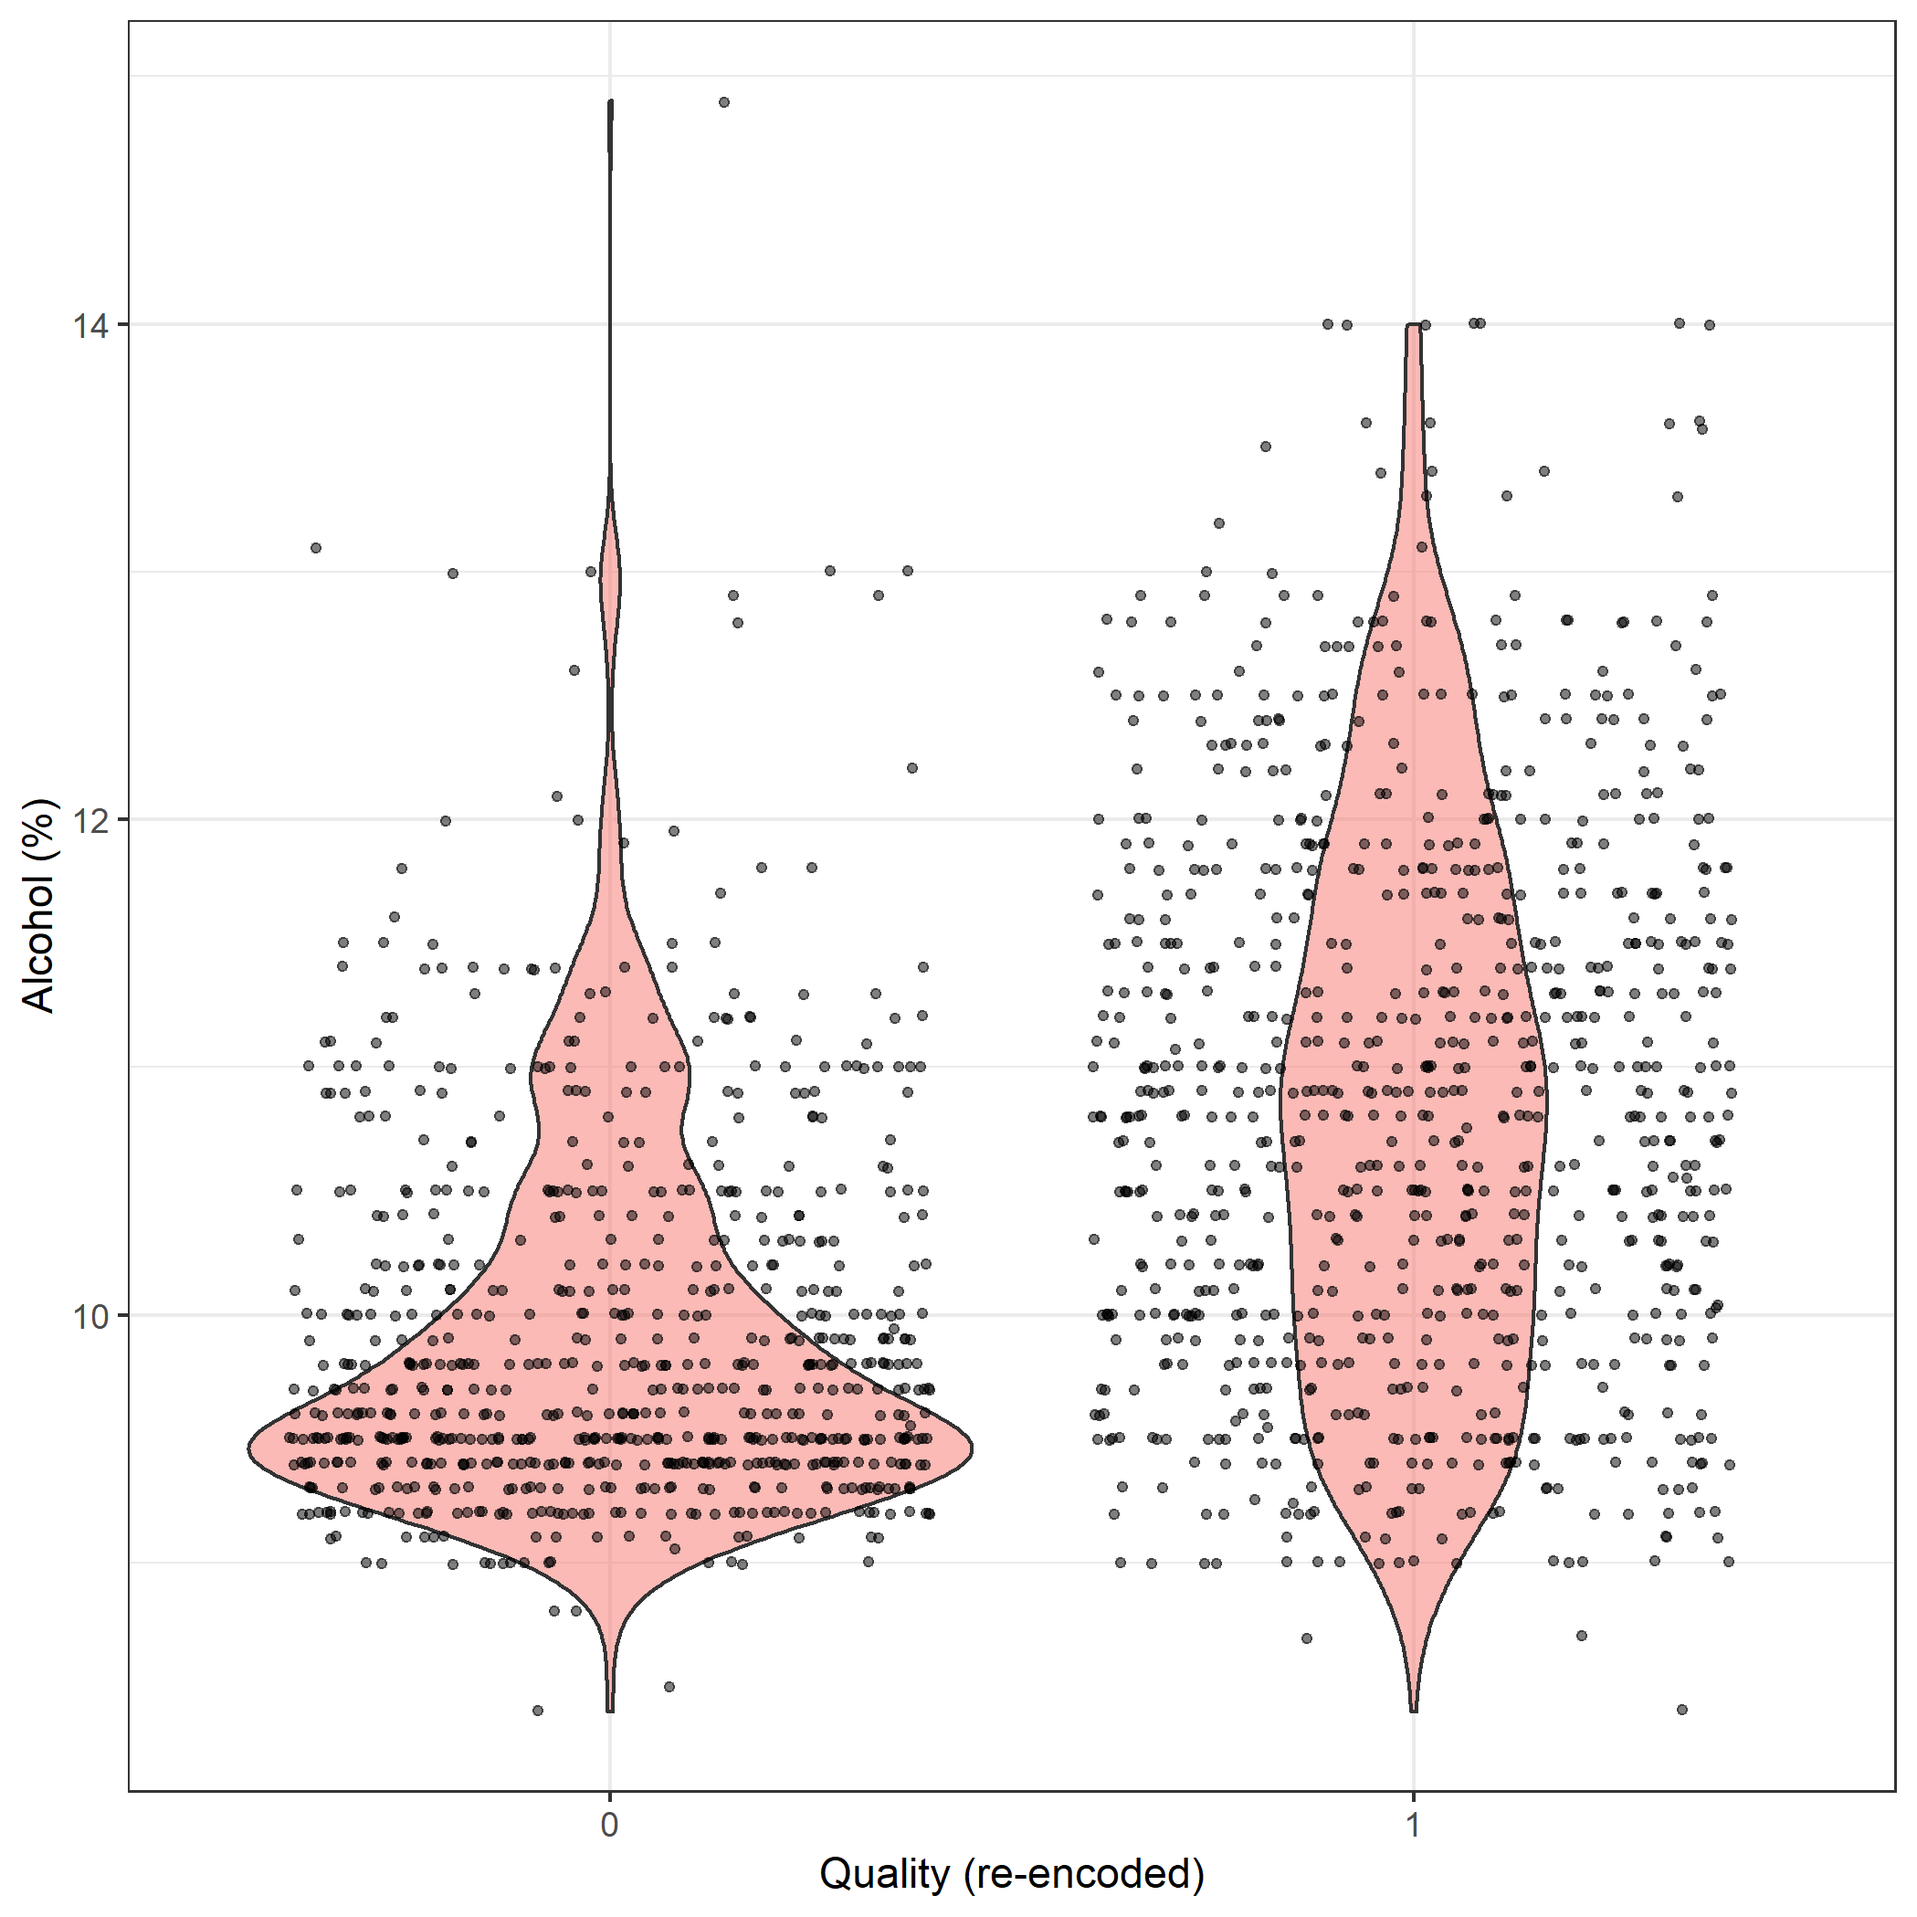
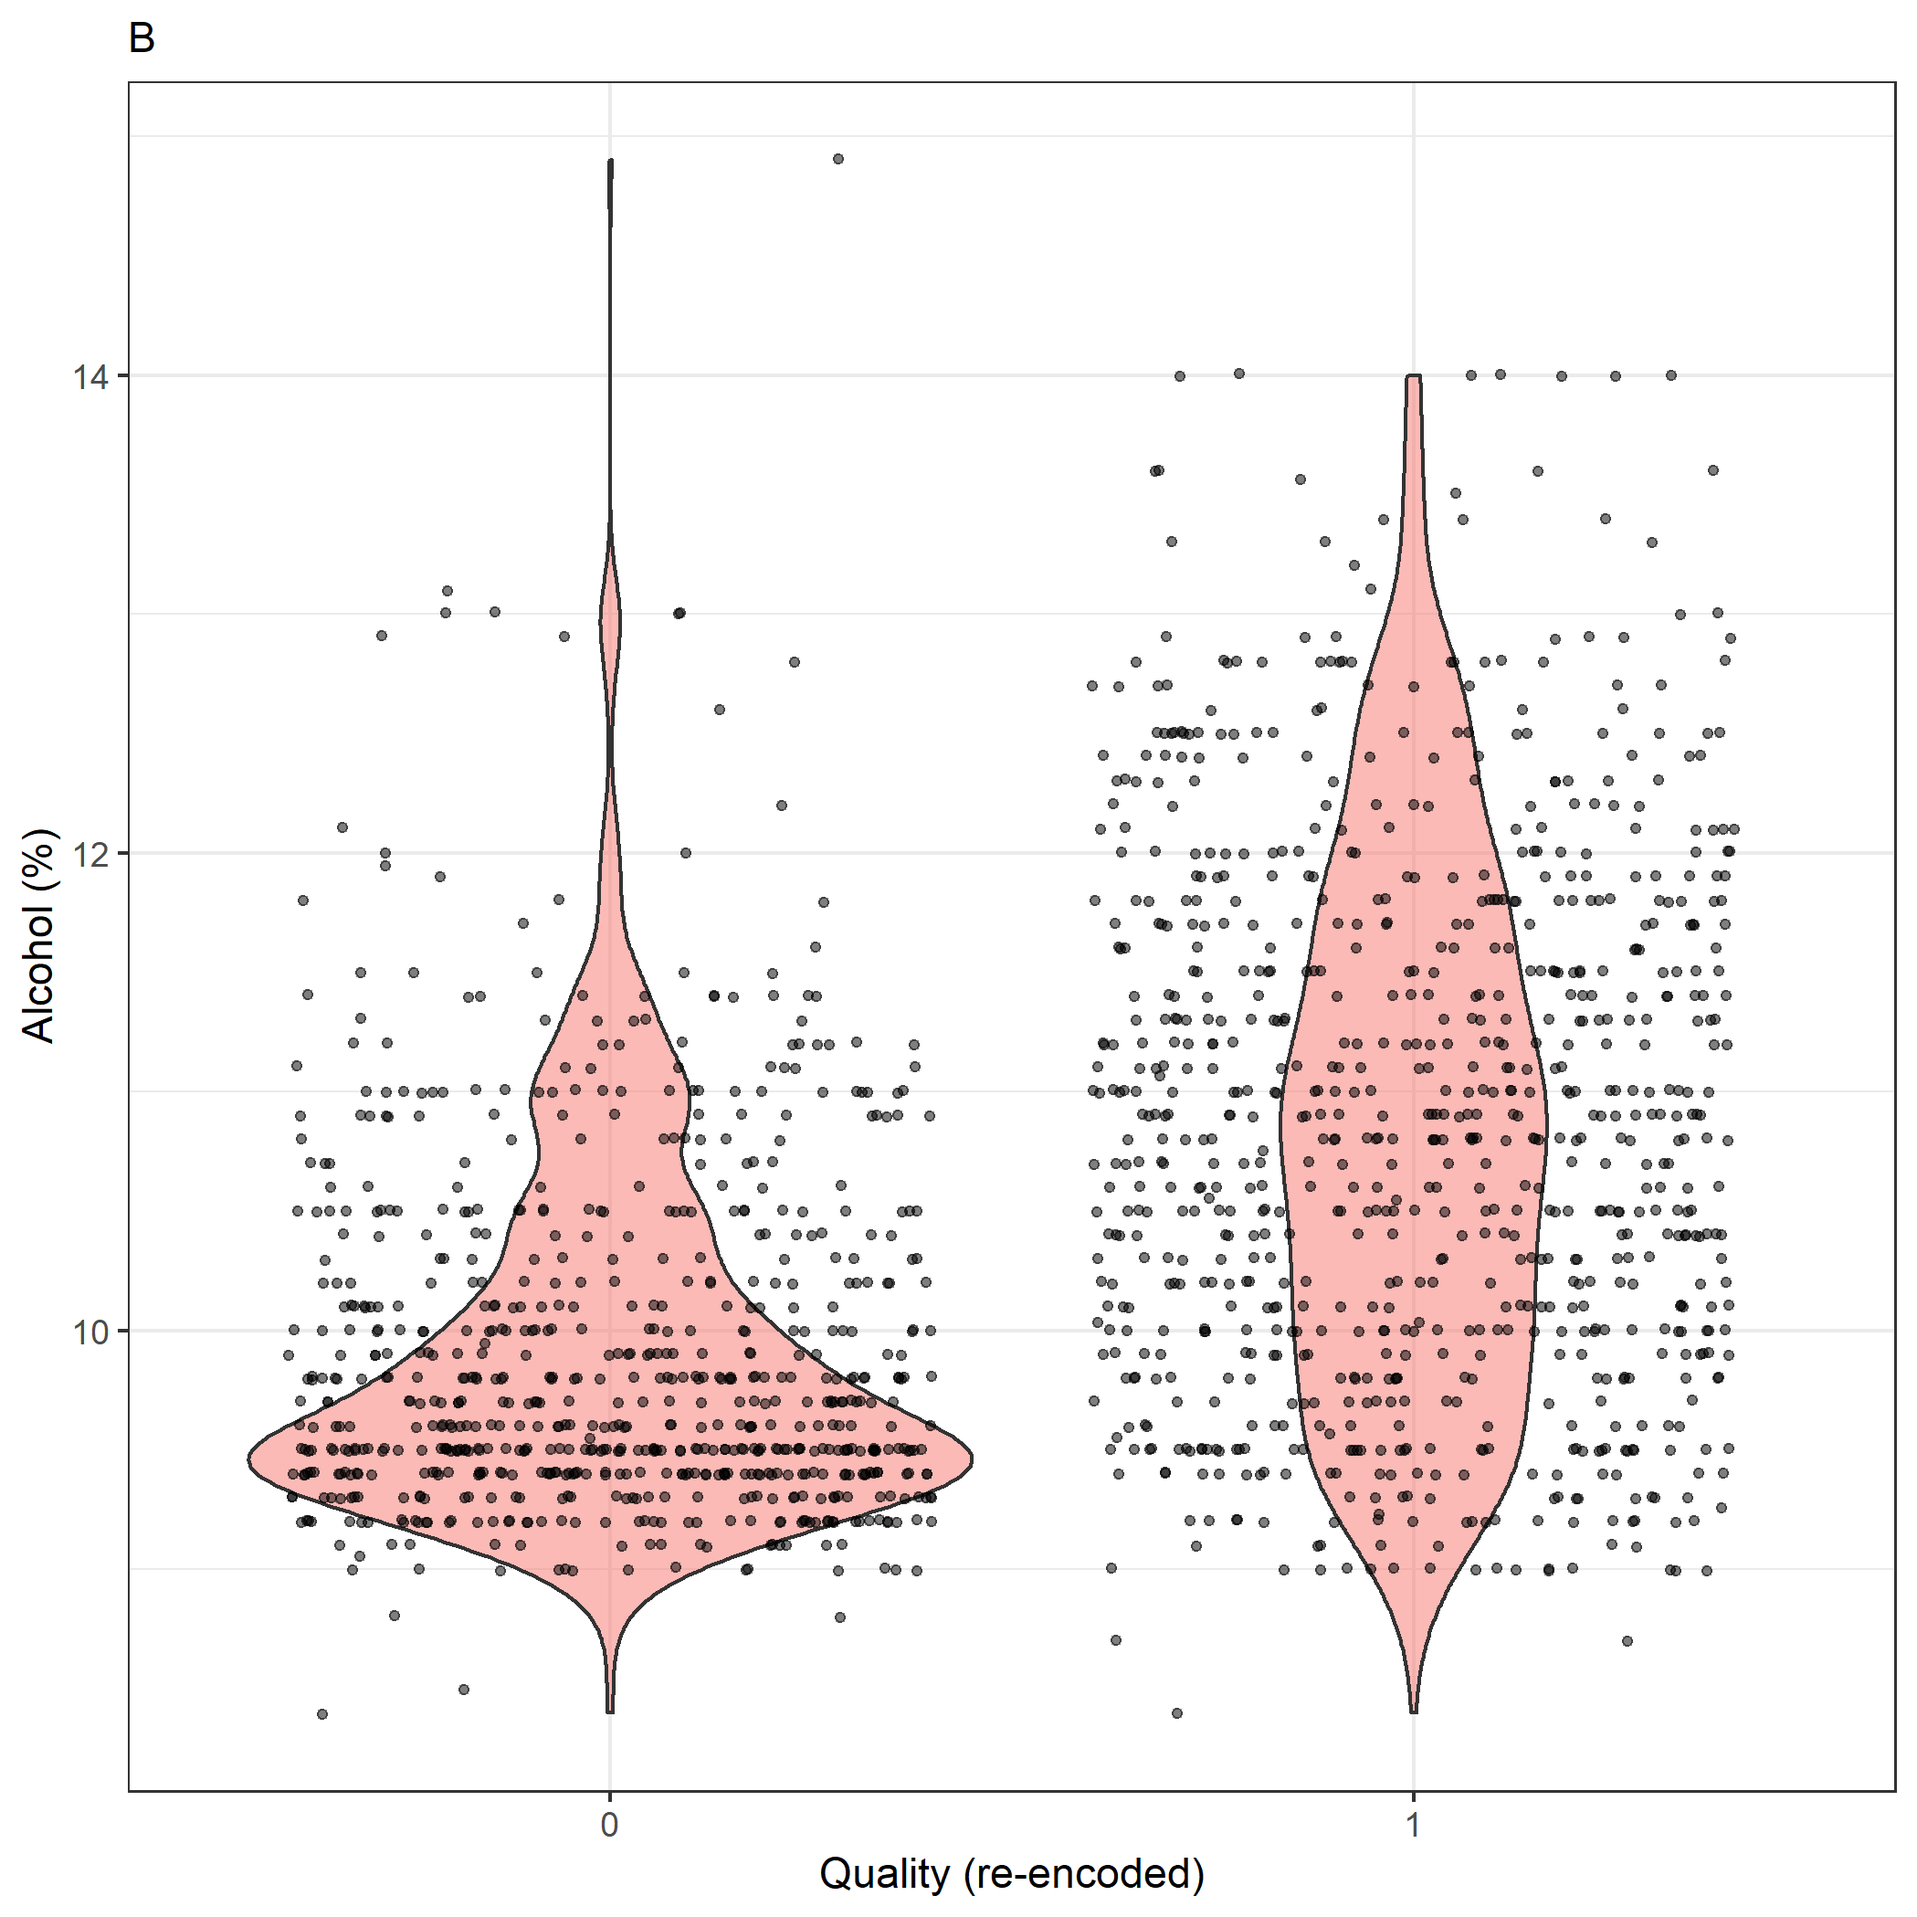
Formatting.

diff --git a/doc/wine_quality_analysis_report.md b/doc/wine_quality_analysis_report.md
@@ -1,6 +1,6 @@
 Predictors of red wine quality
 ================
-Jingyun Chen & Anthony Chiodo
+Jingyun Chen & Anthony Chiodo,
 23/11/2018
 
 ### Introduction
@@ -17,16 +17,17 @@ experts, sommeliers), there clearly must be some characteristics that
 serve as strong predictors for what ultimately is defined as a quality
 wine.
 
-The purpose of this analysis is to determine the which physiochemical
-characteristics of wine are the most important predictors of wine
+The purpose of this analysis is to determine which physiochemical
+characteristics of red wine are the most important predictors of wine
 quality.
 
 ### Data set
 
-The data set we use to conduct this analysis comes from the UCI
-repository (Cortez et. al 2009). It contains 1599 red variants of the
-Portuguese Vinho Verde wine. The physiochemical characteristics are
-captured in 11 features (Table 1), and the target output exists as a
+The data set we use to conduct this analysis was downloaded from Kaggle,
+but originally existed as a data set available through the UCI Machine
+Learning repository (Cortez et. al 2009). It contains 1599 red variants
+of the Portuguese Vinho Verde wine. The physiochemical characteristics
+are captured in 11 features (Table 1), and the target output exists as a
 ranking between 0 and 10 (although, the dataset itself only includes
 ranks ranging from 3 to 8). The target outputs were determined as the
 median rank, and were assessed by wine
@@ -46,6 +47,11 @@ experts.
 | sulphates            | a wine additive which can contribute to sulfur dioxide gas (S02) levels, wich acts as an antimicrobial and antioxidant                                                                          |
 | alcohol              | the percent alcohol content of the wine                                                                                                                                                         |
 
+**Table 1:** A description of the 11 physiochemical characteristics used
+as features to predict wine quality. Descriptions provided by [UCI
+Machine
+Learning](https://www.kaggle.com/uciml/red-wine-quality-cortez-et-al-2009).
+
 Exploratory data analysis revealed that the distribution of the data
 across the targets was fairly unbalanced (i.e. many wines were ranked as
 5 or 6, and few wines were ranked below 5 or above 6). Since the ranking
@@ -53,9 +59,11 @@ scale is from 0 to 10 and most of the data existed at ranks 5 and 6, we
 re-encoded the data such that targets less than or equal to 5 were
 classified as 0 (or “poor” quality), and targets greater than 5 were
 classified as 1 (or “good” quality). By converting this to a binary
-classification problem, the data became more appropriately
-balanced.
+classification problem, the data became more evenly balanced between
+classes.
 
+**Figure 1:** A visual representation of the data associated with each
+class in the original dataset (A), and the re-encoded dataset (B).
 <img src="../results/figures/eda_data_balance.png" width="700px" style="display: block; margin: auto;" />
 
 ### Prediction approach
@@ -78,10 +86,11 @@ for conducting a decision tree classification is as follows:
 
 After running 5-fold cross validation on the train set, we picked the
 depth of 11 as our final tuned hyperparameter for the model because it
-has the highest cross validation score, which is shown in Figure
-X.
+has the highest cross validation score, which is shown in Figure 2.
 
-<img src="../results/figures/cv_score.png" title="**Plotting**" alt="**Plotting**" width="450px" style="display: block; margin: auto;" />
+**Figure 2:** The results of cross validation against maximum tree
+depth.
+<img src="../results/figures/cv_score.png" width="450px" style="display: block; margin: auto;" />
 
 Table 2 shows the classifier and hyperparameter that we used, the
 accuracy of both the train and test set. The final classification
@@ -94,12 +103,13 @@ respectively.
 
 **Table 2:**
 
-Figure X shows the importance of each feature for classifying the wine
+Figure 3 shows the importance of each feature for classifying the wine
 quality. The three most important features according to our results are
 alcohol, volatile acidity, and sulphates with an importance of about
-0.28, 0.12, and 0.12,
-respectively.
+0.28, 0.12, and 0.12, respectively.
 
+**Figure 3:** An ordered plot showing feature importance as determined
+by our decision tree classification.
 <img src="../results/figures/feature_importance.png" width="450px" style="display: block; margin: auto;" />
 
 ### Discussion
@@ -115,10 +125,10 @@ limitation of our analysis. Perhaps if we explored the use of other
 hyperparameters (ex. `min_samples_leaf`, `max_features`, or `criterion`
 from scikit-learn), we would be able to achieve higher classification
 accuracy. Furthermore, a more robust analysis might include not only an
-exploration of the use of additional hyperparameters, but also a
-comparison of how alternative models score. For example, we could have
-used other machine learning models, such as random forest or KNN and
-examined their test accuracy in comparison to decision tree models.
+examination of additional hyperparameters, but also a comparison of how
+alternative models score. For example, we could have used other machine
+learning algorithms, such as random forest or KNN and evaluated their
+test accuracy in comparison to our decision tree model.
 
 ### Future Work
 
@@ -135,5 +145,11 @@ our model).
 
 1.  Red wine quality dataset:
     <https://archive.ics.uci.edu/ml/machine-learning-databases/wine-quality/>
+      - *P. Cortez, A. Cerdeira, F. Almeida, T. Matos and J. Reis.
+        Modeling wine preferences by data mining from physicochemical
+        properties. In Decision Support Systems, Elsevier,
+        47(4):547-553. ISSN: 0167-9236.*
 2.  Scikit-learn decision tree package:
     <https://scikit-learn.org/stable/modules/tree.html>
+      - *Scikit-learn: Machine Learning in Python, Pedregosa et al.,
+        JMLR 12, pp. 2825-2830, 2011.*
